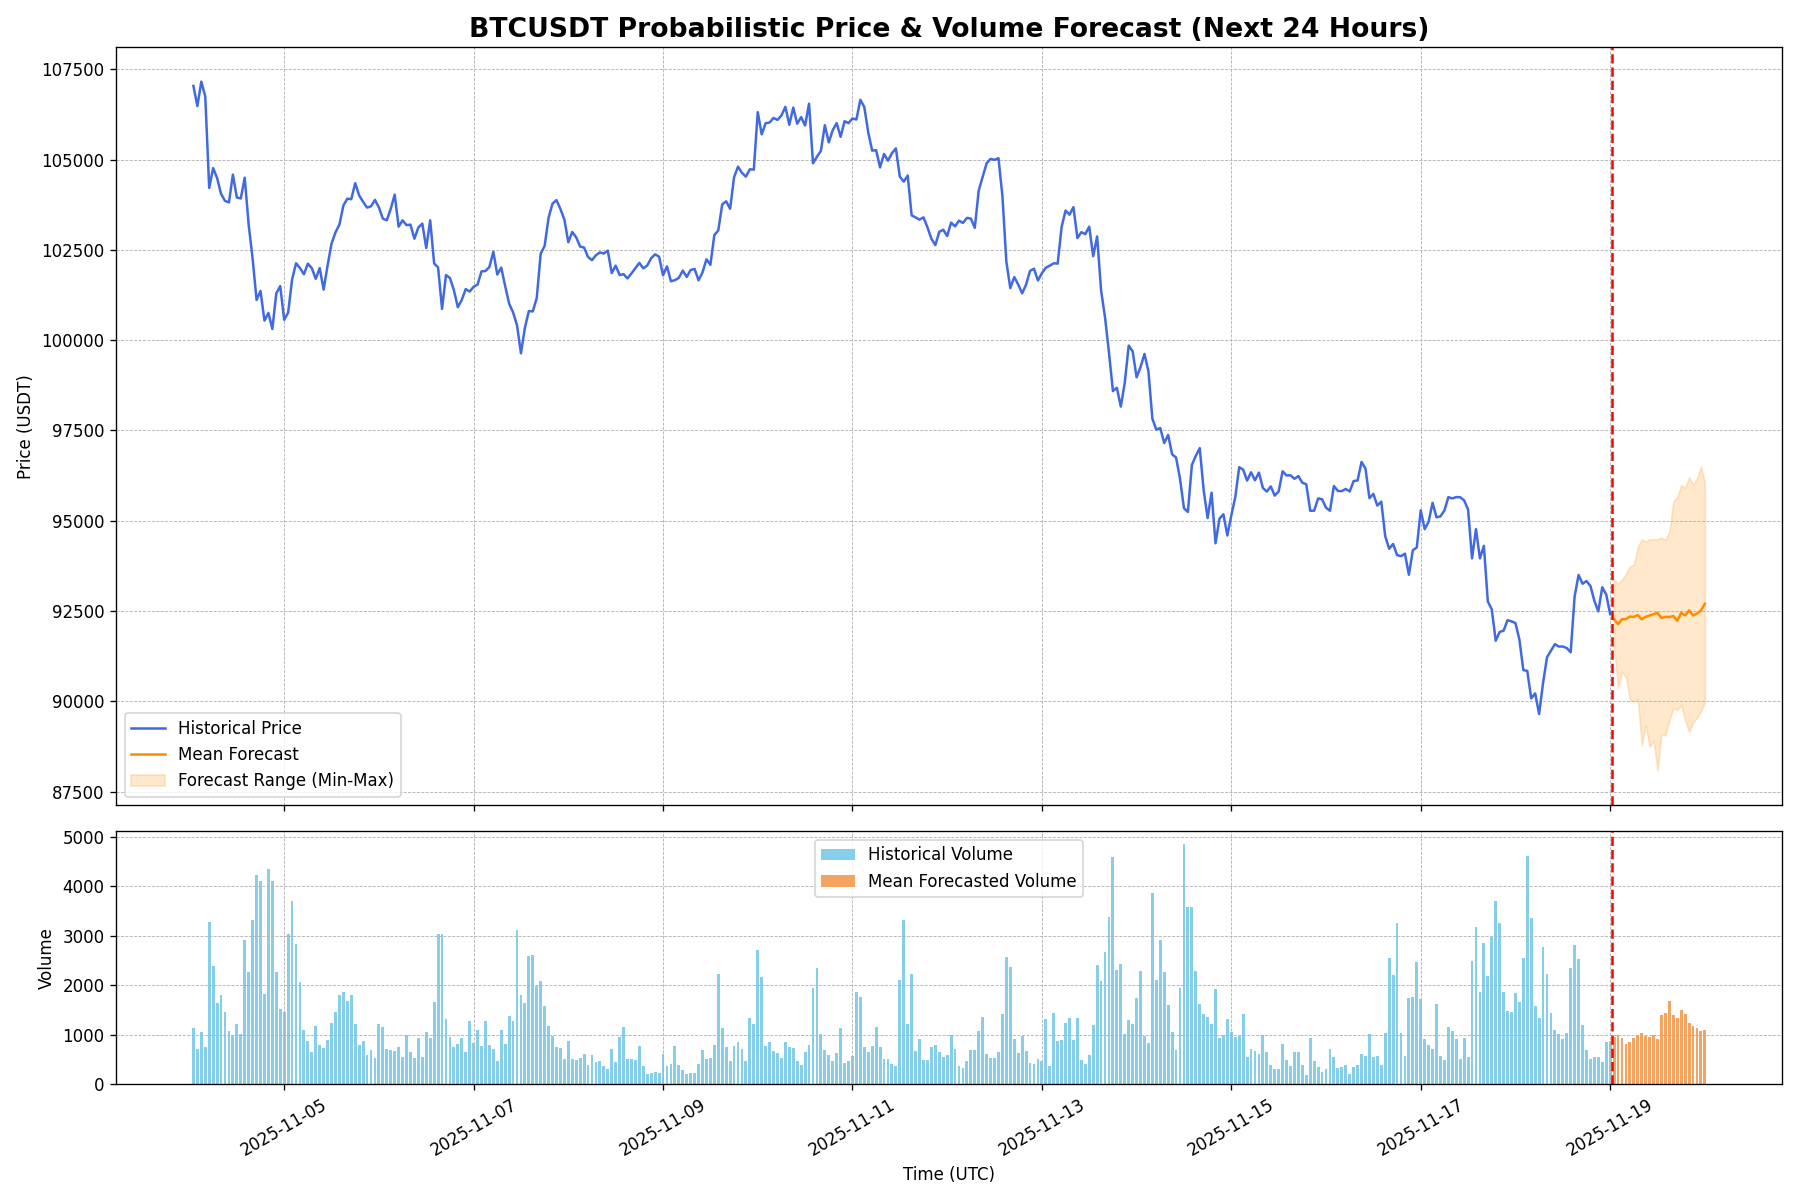
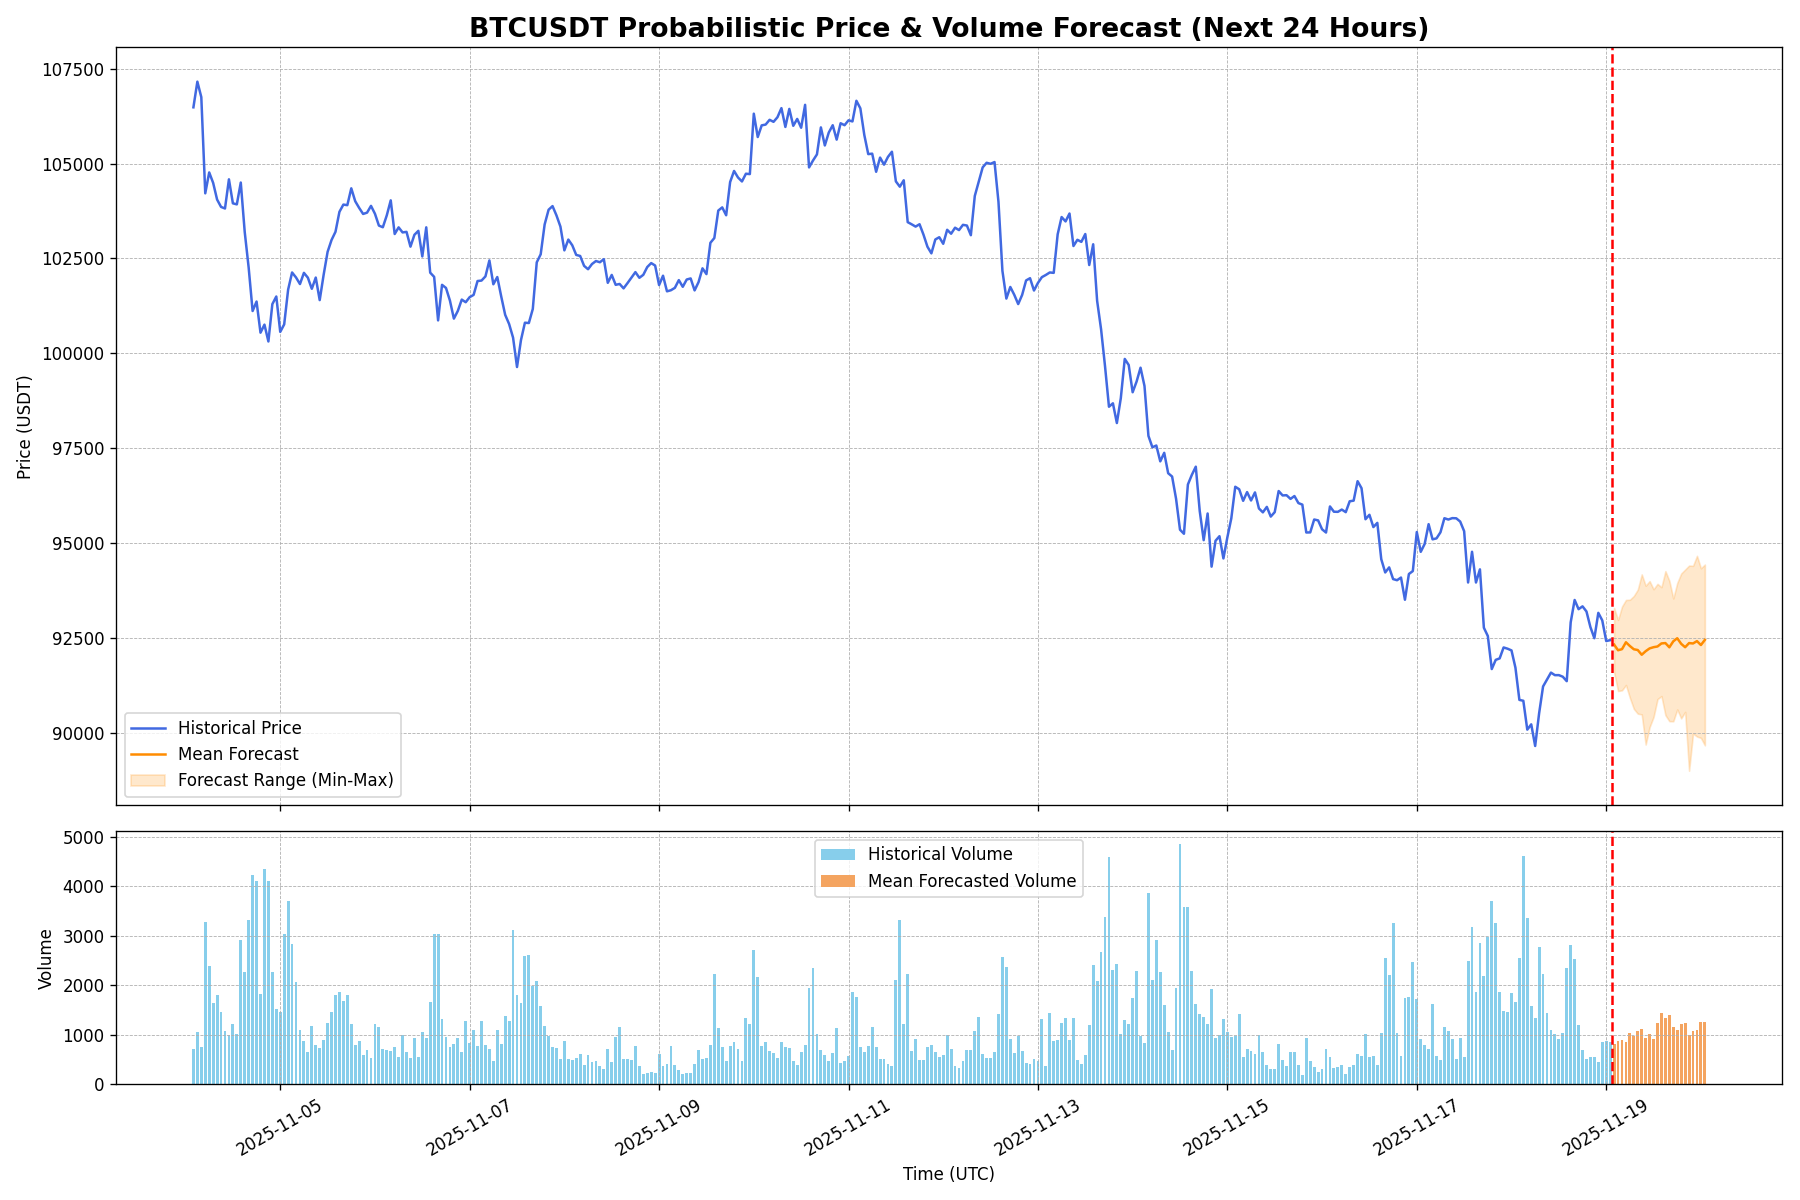
Auto-update forecast for 2025-11-19 02:01 UTC

diff --git a/index.html b/index.html
@@ -22,7 +22,7 @@
         <section id="live-dashboard">
             <h2>Live BTC/USDT Forecast Dashboard</h2>
             <div class="metadata">
-                <span>Last Updated (UTC): <strong id="update-time">2025-11-19 01:01:05</strong></span>
+                <span>Last Updated (UTC): <strong id="update-time">2025-11-19 02:01:07</strong></span>
                 <span>Data Source: Binance | Interval: 1-Hour</span>
             </div>
 
@@ -34,7 +34,7 @@
                 </div>
                 <div class="metric-card">
                     <h3>Volatility Amplification (Next 24h)</h3>
-                    <p class="metric-value" id="vol-amp-prob">20.0%</p>
+                    <p class="metric-value" id="vol-amp-prob">46.7%</p>
                     <div class="metric-desc">The probability that predicted volatility over the next 24h will exceed recent historical volatility.</div>
                 </div>
             </div>
